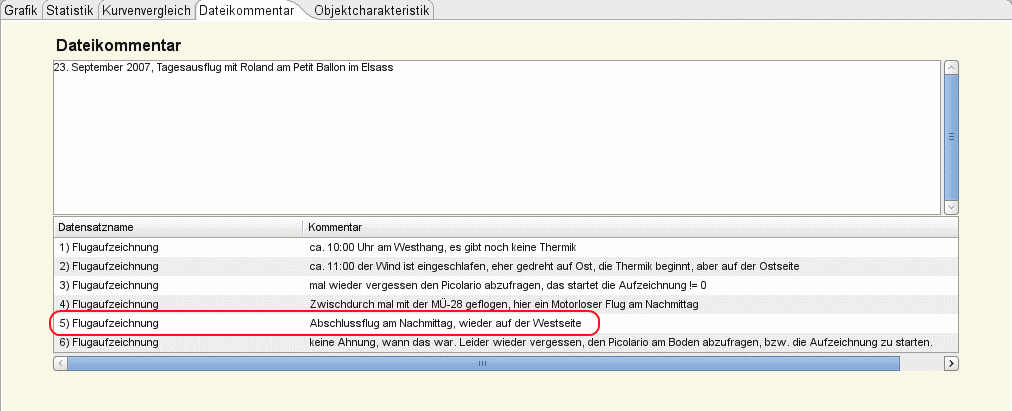
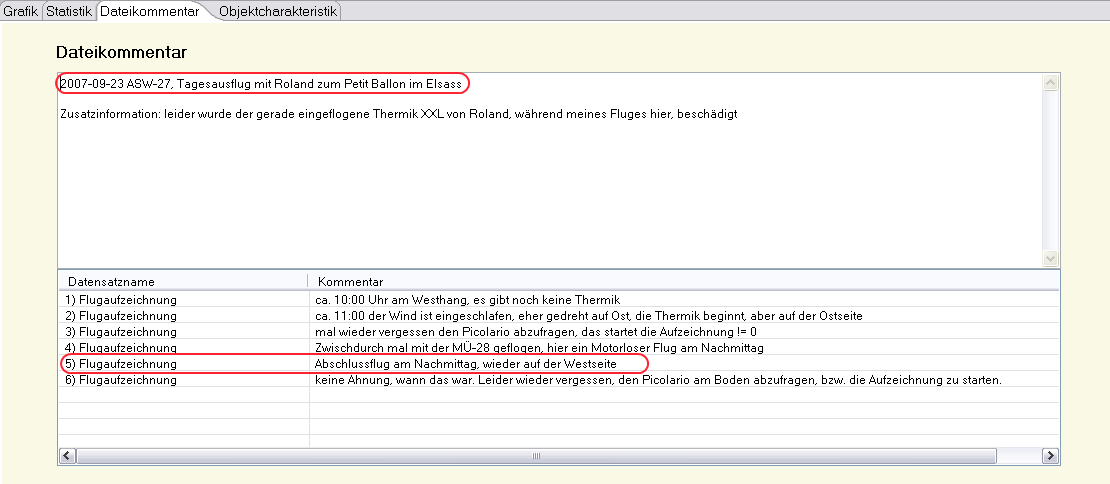
bug #37302 file comment removed

Changed region(s): [[0.0306, 0.0876, 0.9802, 0.9635], [0.0, 0.0, 1.0, 0.0584]]

diff --git a/DataExplorer/src/help/en/HelpInfo_92.html b/DataExplorer/src/help/en/HelpInfo_92.html
@@ -88,17 +88,24 @@
 	window</H1>
 	<P><IMG SRC="images/FileComment_Window.png" NAME="graphics1" ALIGN=BOTTOM>
 		</P>
-	<P>At
-	the file command window it is possible to comment things relevant
-	for all the data sets. As starting point the actual date will be
+	<P>The file comment window allows to comment things relevant
+	for all the data sets of this file. As starting point the actual date will be
 	displayed. Initial this is the creation date of the file. This date
 	might be modified of course, if the real data are created or logged
 	at another day.  
+	If an object name is in use it will be displayed as well.
 	</P>
 	<P>The
-	file comment window will be viable by selecting its tab. The data set
+	file comment window will be visible by selecting its tab. The data set
 	comment will be visible, in a lower table for all data sets part of
 	this file. 
+	</BR>
+	<B>Hint : </B>Some part of the data set comment can be displayed as graphics header in graphics tab.
+	The displayed header part gets separated by semicolon, colon or line break from the file comment.
+	A hyphen will be used to separate the header and actual data set name. 
+	Changes will be saved by selecting a different tab. 
+	</P>
+	
 	</P>
 	<P><IMG SRC="images/RecordSetComment_Window.png" NAME="graphics2" ALIGN=BOTTOM>
 		</P>

diff --git a/DataExplorer/src/help/de/HelpInfo_92.html b/DataExplorer/src/help/de/HelpInfo_92.html
@@ -88,13 +88,14 @@
 alle Datens&auml;tze g&uuml;ltig sind, notieren. Als Anfangswert wird
 das aktuelle Datum, wann die Datensatzsammlung angelegt wurde,
 eingeblendet. Diese Datum kann nat&uuml;rlich &uuml;berschrieben werden,
-wenn z.B. die Daten an einem anderen Tag entstanden sind.</P>
+wenn z.B. die Daten an einem anderen Tag entstanden sind.
+</P>
 <P>Das Dateikommentarfenster wird &uuml;ber den Tabulator aktiviert.
 Der Bereich f&uuml;r den Datensatzkommentar wird unten innerhalb des
 graphischen Tabulatorfensters ge&ouml;ffnet.
 </BR>
 <B>Hinweis : </B>Einige Teile des Dateikommentart können auch als Grafik&uuml;berschrift angezeigt werden. 
-Der angezeigte Teil wird durch Komma, Semikolon, Doppelpunkt, Punkt oder Zeilenumbruch separiert und durch einen Bindestrich mit dem Datensatznamen angezeigt.
+Der angezeigte Teil wird durch Semikolon, Doppelpunkt oder Zeilenumbruch separiert und durch einen Bindestrich mit dem Datensatznamen angezeigt.
 Sichern der Eingabe folgt durch weiter schalten auf ein anderen Tabulator!
 </P>
 <P><IMG SRC="images/RecordSetComment_Window.png" NAME="graphics2" ALIGN=BOTTOM></P>

diff --git a/DataExplorer/src/gde/ui/tab/GraphicsComposite.java b/DataExplorer/src/gde/ui/tab/GraphicsComposite.java
@@ -256,16 +256,16 @@ public class GraphicsComposite extends Composite {
 							RecordSet recordSet = activeChannel.getActiveRecordSet();
 							if (recordSet != null) {
 								String tmpDescription = activeChannel.getFileDescription();
-								if (tmpDescription.contains(",") ) {
-									tmpDescription = tmpDescription.substring(0, tmpDescription.indexOf(","));
-								}
-								else if (tmpDescription.contains(":")) {
+								if (tmpDescription.contains(":")) {
 									tmpDescription = tmpDescription.substring(0, tmpDescription.indexOf(":"));
 								}
-								else if (tmpDescription.contains(";")) {
+								if (tmpDescription.contains(";")) {
 									tmpDescription = tmpDescription.substring(0, tmpDescription.indexOf(";"));
 								}
-								else if (tmpDescription.contains("\n")) {
+								if (tmpDescription.contains("\r")) {
+									tmpDescription = tmpDescription.substring(0, tmpDescription.indexOf("\r"));
+								}
+								if (tmpDescription.contains("\n")) {
 									tmpDescription = tmpDescription.substring(0, tmpDescription.indexOf("\n"));
 								}
 								String tmpHeader = tmpDescription + GDE.STRING_MESSAGE_CONCAT + recordSet.getName();

diff --git a/DataExplorer/src/gde/ui/tab/FileCommentWindow.java b/DataExplorer/src/gde/ui/tab/FileCommentWindow.java
@@ -112,6 +112,7 @@ public class FileCommentWindow extends CTabItem {
 		this.commentMainComposite.addPaintListener(new PaintListener() {
 			public void paintControl(PaintEvent evt) {
 				if (log.isLoggable(Level.FINE)) log.log(Level.FINE, "commentMainComposite.paintControl, event=" + evt); //$NON-NLS-1$
+				setFileComment();
 				updateRecordSetTable();
 			}
 		});
@@ -119,6 +120,15 @@ public class FileCommentWindow extends CTabItem {
 			public void helpRequested(HelpEvent evt) {
 				if (log.isLoggable(Level.FINER)) log.log(Level.FINER, "commentMainComposite.helpRequested " + evt); //$NON-NLS-1$
 				DataExplorer.getInstance().openHelpDialog("", "HelpInfo_92.html"); //$NON-NLS-1$ //$NON-NLS-2$
+			}
+		});
+		this.commentMainComposite.addFocusListener(new FocusListener() {
+			public void focusLost(FocusEvent evt) {
+				if (log.isLoggable(Level.FINER)) log.log(Level.FINER, "commentMainComposite.focusLost() , event=" + evt); //$NON-NLS-1$
+				setFileComment();
+			}
+			public void focusGained(FocusEvent evt) {
+				if (log.isLoggable(Level.FINER)) log.log(Level.FINER, "commentMainComposite.focusGained() , event=" + evt); //$NON-NLS-1$
 			}
 		});
 		{
